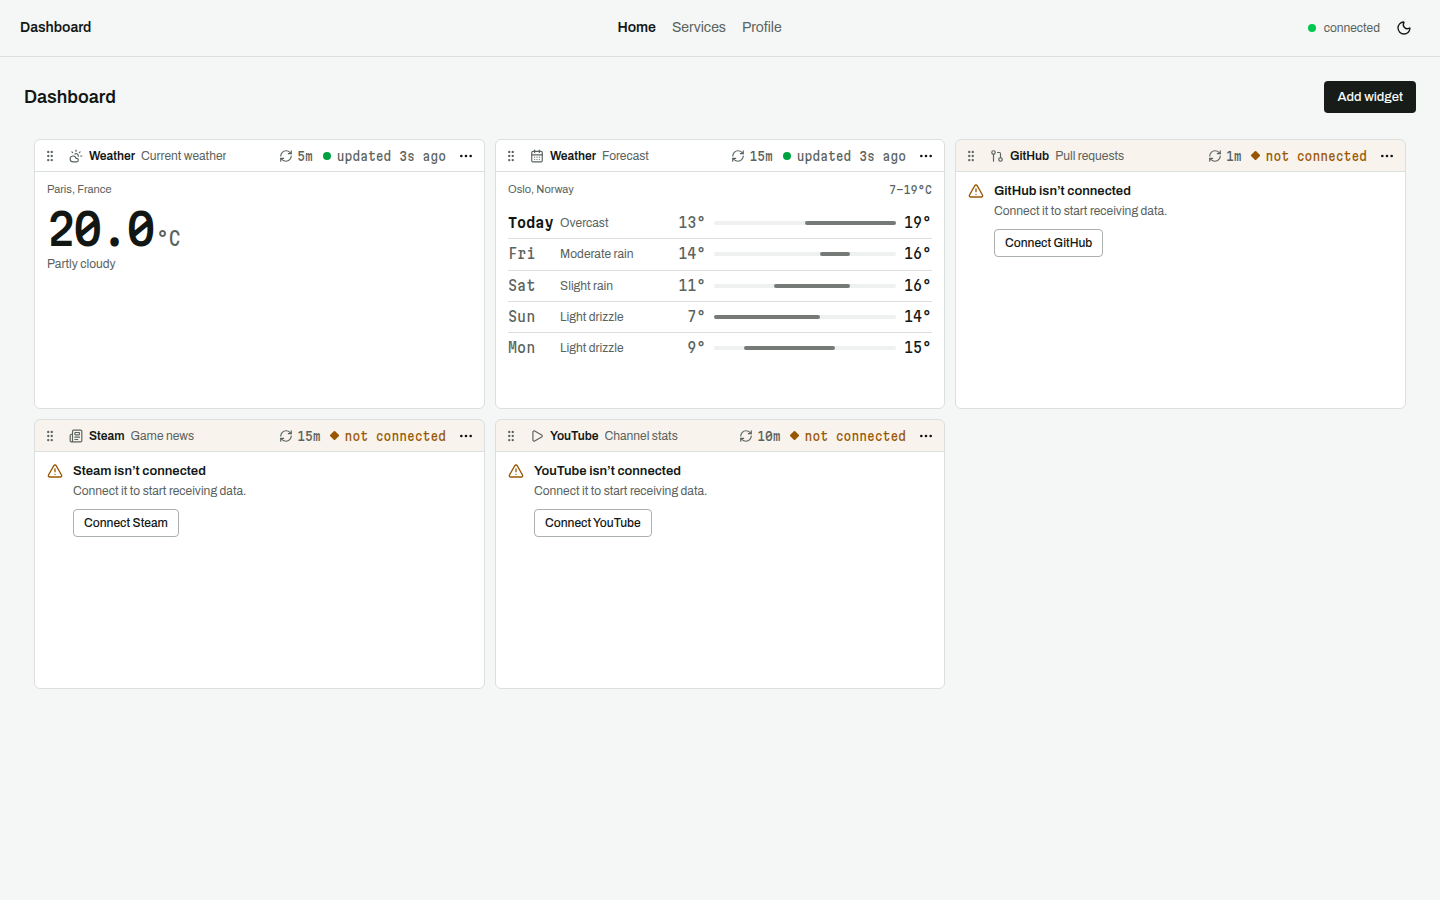
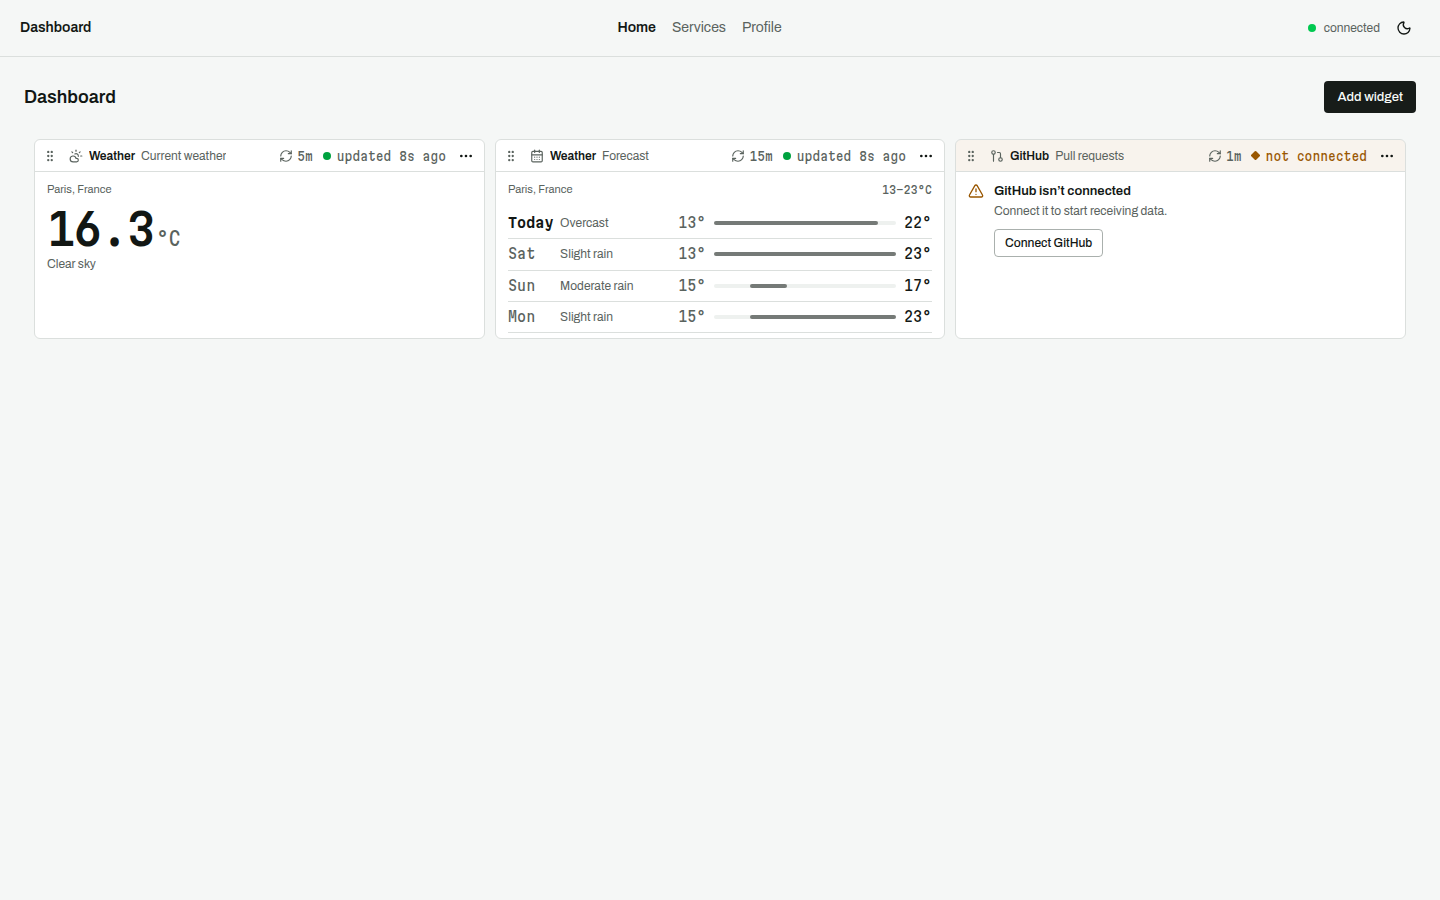
[C.NE][mockui-widget-frame] docs: add review verification evidence

diff --git a/features/mockui-widget-frame/verification/review.md b/features/mockui-widget-frame/verification/review.md
@@ -1,29 +1,34 @@
-1. **PASS**: Every frame state renders like its panel in `19-widget-states` at 1440 and 375 px, in dark and light. The states are live, loading, stale, paused, NOT_CONNECTED, REAUTH_REQUIRED, RATE_LIMITED, UPSTREAM_ERROR and INVALID_PARAMS. Live weather and NOT_CONNECTED came from the real backend. Paused was reached by taking the browser offline until the socket dropped. The other states were written into the `['widget', id]` query cache of nine `github.pull_requests` panels. Evidence: [01](https://github.com/tekClovis/dashBoard/blob/feature/mockui-widget-frame/features/mockui-widget-frame/verification/01-dashboard-real--light-1440.png?raw=true), [04](https://github.com/tekClovis/dashBoard/blob/feature/mockui-widget-frame/features/mockui-widget-frame/verification/04-states--light-1440.png?raw=true), [05](https://github.com/tekClovis/dashBoard/blob/feature/mockui-widget-frame/features/mockui-widget-frame/verification/05-states--dark-1440.png?raw=true), [06](https://github.com/tekClovis/dashBoard/blob/feature/mockui-widget-frame/features/mockui-widget-frame/verification/06-paused--dark-1440.png?raw=true), [07](https://github.com/tekClovis/dashBoard/blob/feature/mockui-widget-frame/features/mockui-widget-frame/verification/07-paused--light-1440.png?raw=true), [08](https://github.com/tekClovis/dashBoard/blob/feature/mockui-widget-frame/features/mockui-widget-frame/verification/08-paused--light-375.png?raw=true), [09](https://github.com/tekClovis/dashBoard/blob/feature/mockui-widget-frame/features/mockui-widget-frame/verification/09-states--light-375.png?raw=true), [10](https://github.com/tekClovis/dashBoard/blob/feature/mockui-widget-frame/features/mockui-widget-frame/verification/10-states--dark-375.png?raw=true). References: [dark-1440](https://github.com/tekClovis/dashBoard/blob/feature/mockui-widget-frame/features/mockui-widget-frame/verification/ref-19-widget-states--dark-1440.png?raw=true), [light-1440](https://github.com/tekClovis/dashBoard/blob/feature/mockui-widget-frame/features/mockui-widget-frame/verification/ref-19-widget-states--light-1440.png?raw=true), [dark-375](https://github.com/tekClovis/dashBoard/blob/feature/mockui-widget-frame/features/mockui-widget-frame/verification/ref-19-widget-states--dark-375.png?raw=true), [light-375](https://github.com/tekClovis/dashBoard/blob/feature/mockui-widget-frame/features/mockui-widget-frame/verification/ref-19-widget-states--light-375.png?raw=true). Note: when a panel's rows fill its height, the stale footer note "No update for 51m. Expected every 10m." is in the DOM, but you have to scroll the body to see it. The reference keeps it visible at the bottom of the panel.
-2. **PASS**: Each state gets the right lamp. Live is a green filled circle. Stale and paused are an amber ring. Warn is an amber diamond. Error is a red square. Waiting is a dashed neutral ring. Every lamp has a text label next to it ("updated 2s ago", "stale 51m", "paused 46s", "not connected", "reconnect", "retry 4m", "failed", "fix settings", "waiting"). Green appears only on live panels. Evidence: [05](https://github.com/tekClovis/dashBoard/blob/feature/mockui-widget-frame/features/mockui-widget-frame/verification/05-states--dark-1440.png?raw=true), [06](https://github.com/tekClovis/dashBoard/blob/feature/mockui-widget-frame/features/mockui-widget-frame/verification/06-paused--dark-1440.png?raw=true).
-3. **PASS**: The band copy matches design-reference §5 and the mock's `ERR_COPY` word for word. **Connect GitHub** and **Reconnect GitHub** link to `/services`. **Configure** opens the Configure widget dialog. Evidence: [04](https://github.com/tekClovis/dashBoard/blob/feature/mockui-widget-frame/features/mockui-widget-frame/verification/04-states--light-1440.png?raw=true), [13](https://github.com/tekClovis/dashBoard/blob/feature/mockui-widget-frame/features/mockui-widget-frame/verification/13-invalid-params-configure-opens--dark-1440.png?raw=true).
-4. **FAIL**: The push history now survives a remount: Services → Home took the sparkline to 4 points ([02](https://github.com/tekClovis/dashBoard/blob/feature/mockui-widget-frame/features/mockui-widget-frame/verification/02-sparkline-survives-remount--light-1440.png?raw=true)). It also resets when the remount comes after an out-of-band `PATCH` ([03](https://github.com/tekClovis/dashBoard/blob/feature/mockui-widget-frame/features/mockui-widget-frame/verification/03-history-reset-after-city-change--light-1440.png?raw=true)). It still mixes cities after a change made through the real Configure dialog.
-   - **Steps:** the current_weather city was Reykjavik. It was changed to Paris with Configure → Save, which sends `PATCH /api/widgets/:id` and invalidates `['widgets']`. Then the next scheduled push was awaited, and the view was remounted (Services → Home).
-   - **Result:** the panel's channel reads "Paris, France", but the sparkline shows Reykjavik 10° and then Paris 20°, with "↑ 10.0° since 14:25" ([11](https://github.com/tekClovis/dashBoard/blob/feature/mockui-widget-frame/features/mockui-widget-frame/verification/11-sparkline-mixes-cities-after-configure--light-1440.png?raw=true), [12](https://github.com/tekClovis/dashBoard/blob/feature/mockui-widget-frame/features/mockui-widget-frame/verification/12-live-pulse-frozen-mid-sweep--light-1440.png?raw=true)).
-   - **Cause:** `useWidgetData` tags each push with the params the client holds *when the push arrives* (`paramsKey.current`), not the params the data was fetched with. The server's timer is not reconfigured on PATCH, so it keeps fetching the old city until the client resubscribes. `useWidgetData` deliberately does not resubscribe on a params change. The first push after Save therefore carries Reykjavik data under the Paris key. It resets the history to that point, and the Paris push after the resubscribe is appended to it. `github.pull_requests` uses the same `pushTrail`, so its "↑N since" can compare two repos or two `state=` filters in the same way.
-   - No spec covers this sequence: the new `useWidgetData.spec` case changes params and pushes new-params data in the same step. Channel, stat and detail, plus mono numbers, times and IDs, are otherwise correct for each renderer. Note: the current-weather stat has no condition icon, and forecast rows have no per-day icon, unlike the mock.
-5. **PASS**: `frame-state.spec.ts` covers every branch in first-match order (warn and error, then loading, paused, stale over 2× the interval, live). It also covers every error copy, including the variants with and without `retryAt` and with and without a city. `WidgetFrame.spec.tsx` adds cases for remount, recovery and pulse restart.
-6. **PASS**: In `web/`, `npm test` passed 31 files and 147 tests. `npx tsc --noEmit` exited 0. `npm run lint` exited 0 with 1 warning, at `src/api/client.ts:17`, which this branch did not change.
-7. **PASS** (mock flow "Simulate a push", design-reference §5 "Live pulse"): the pulse CSS compiles in the Vite build. That build has the `widget-sweep`, `widget-ping` and `widget-sweep-still` keyframes, and the `[data-pulse]>[data-slot=widget-head]:after` rule. In the browser, a `MutationObserver` on the live dashboard saw `data-pulse` set on each `widget:data` and cleared after about 900 ms. The computed styles were `widget-sweep 0.9s` on the header `::after` with an `oklch(0.62 0.18 148)` (`--live`) background, and `widget-ping` on the live lamp. With reduced motion, the line uses `widget-sweep-still` and the lamp has no animation. A frame frozen mid-pulse shows the lamp ring and the line under the header ([12](https://github.com/tekClovis/dashBoard/blob/feature/mockui-widget-frame/features/mockui-widget-frame/verification/12-live-pulse-frozen-mid-sweep--light-1440.png?raw=true)).
+1. **PASS**: Every frame state renders like its panel in `19-widget-states`, in dark and light, at 1440 and 375 px. The states are live, loading, stale, paused, NOT_CONNECTED, REAUTH_REQUIRED, RATE_LIMITED, UPSTREAM_ERROR and INVALID_PARAMS. Live weather and forecast, NOT_CONNECTED and INVALID_PARAMS came from the real backend. The other states were written into the `['widget', id]` query cache on a second dashboard. Paused was reached by disconnecting the socket. Evidence: [01-dashboard-real--light-1440.png](https://github.com/tekClovis/dashBoard/blob/feature/mockui-widget-frame/features/mockui-widget-frame/verification/01-dashboard-real--light-1440.png?raw=true), [states--light-1440.png](https://github.com/tekClovis/dashBoard/blob/feature/mockui-widget-frame/features/mockui-widget-frame/verification/states--light-1440.png?raw=true), [states--dark-1440.png](https://github.com/tekClovis/dashBoard/blob/feature/mockui-widget-frame/features/mockui-widget-frame/verification/states--dark-1440.png?raw=true), [states--light-375.png](https://github.com/tekClovis/dashBoard/blob/feature/mockui-widget-frame/features/mockui-widget-frame/verification/states--light-375.png?raw=true), [states--dark-375.png](https://github.com/tekClovis/dashBoard/blob/feature/mockui-widget-frame/features/mockui-widget-frame/verification/states--dark-375.png?raw=true), [paused--light-1440.png](https://github.com/tekClovis/dashBoard/blob/feature/mockui-widget-frame/features/mockui-widget-frame/verification/paused--light-1440.png?raw=true).
+2. **PASS**: Each state gets the right lamp. Live is a green filled circle. Stale and paused are an amber ring. Warn is an amber diamond. Error is a red square. Waiting is a dashed neutral ring. Every lamp has a text label next to it. Warn and error headers are tinted. Green appears only on live panels. Note: the sparkline's last-point dot stays green on stale and paused panels, but the reference stale panel does the same. Evidence: [states--light-1440.png](https://github.com/tekClovis/dashBoard/blob/feature/mockui-widget-frame/features/mockui-widget-frame/verification/states--light-1440.png?raw=true), [paused--light-1440.png](https://github.com/tekClovis/dashBoard/blob/feature/mockui-widget-frame/features/mockui-widget-frame/verification/paused--light-1440.png?raw=true).
+3. **FAIL**: In a second session, the INVALID_PARAMS band names the wrong city.
+   - **Steps:** open the dashboard in sessions A and B with the same user. In A, change the city London → "Atlantisxq" with Configure → Save.
+   - **Result:** A reads "No results for “Atlantisxq”." ([07-session-a-invalid-city-copy--light-1440.png](https://github.com/tekClovis/dashBoard/blob/feature/mockui-widget-frame/features/mockui-widget-frame/verification/07-session-a-invalid-city-copy--light-1440.png?raw=true)). B reads "No results for “Paris”. Check the city name." above "Last data from 00:27 · London, United Kingdom" ([08-session-b-invalid-city-names-paris--light-1440.png](https://github.com/tekClovis/dashBoard/blob/feature/mockui-widget-frame/features/mockui-widget-frame/verification/08-session-b-invalid-city-names-paris--light-1440.png?raw=true)). Paris is neither the city that was rejected nor the city of the data shown.
+   - **Cause:** `WidgetFrame.tsx` builds the copy from `instance.params.city`, which is B's cached `['widgets']` entry. That entry is from before A's Configure. The mock's `ERR_COPY.INVALID_PARAMS` uses the error's own detail first (`e.detail || w.params.city`). The server's `widget:error` message carries the rejected city ("Could not resolve city 'atlantisxq'."), but the frame ignores it. This is the same stale-params path that 47e40f9 fixed for history, here reaching the error copy.
+   - Otherwise correct: the copy for every code matches design-reference §5 and the mock's `ERR_COPY`. **Connect GitHub** and **Reconnect GitHub** link to `/services`. The band's **Configure** opens the dialog, and saving a valid city brings the panel back to live in both sessions. Evidence: [states--light-1440.png](https://github.com/tekClovis/dashBoard/blob/feature/mockui-widget-frame/features/mockui-widget-frame/verification/states--light-1440.png?raw=true), [09-band-configure-opens-dialog--light-1440.png](https://github.com/tekClovis/dashBoard/blob/feature/mockui-widget-frame/features/mockui-widget-frame/verification/09-band-configure-opens-dialog--light-1440.png?raw=true), [10-fixed-city-recovers-history-reset--light-1440.png](https://github.com/tekClovis/dashBoard/blob/feature/mockui-widget-frame/features/mockui-widget-frame/verification/10-fixed-city-recovers-history-reset--light-1440.png?raw=true).
+4. **PASS**: Each renderer shows channel, stat and detail for its widget type, and numbers, times and IDs are mono. The sparkline and delta no longer mix cities.
+   - **Two sessions:** B had 2 Paris points. A changed the city to London with Configure → Save. Both sessions reset to a single London point keyed `[["city","London"],["units","metric"]]`. After the next scheduled push, both held only London: 00:22 15.8°, 00:27 15.7°. Evidence: [02-session-b-paris-two-points--light-1440.png](https://github.com/tekClovis/dashBoard/blob/feature/mockui-widget-frame/features/mockui-widget-frame/verification/02-session-b-paris-two-points--light-1440.png?raw=true), [03-session-a-london-after-configure--light-1440.png](https://github.com/tekClovis/dashBoard/blob/feature/mockui-widget-frame/features/mockui-widget-frame/verification/03-session-a-london-after-configure--light-1440.png?raw=true), [04-session-b-london-history-reset--light-1440.png](https://github.com/tekClovis/dashBoard/blob/feature/mockui-widget-frame/features/mockui-widget-frame/verification/04-session-b-london-history-reset--light-1440.png?raw=true), [05-session-b-london-only-after-next-push--light-1440.png](https://github.com/tekClovis/dashBoard/blob/feature/mockui-widget-frame/features/mockui-widget-frame/verification/05-session-b-london-only-after-next-push--light-1440.png?raw=true), [06-session-a-london-only-after-next-push--light-1440.png](https://github.com/tekClovis/dashBoard/blob/feature/mockui-widget-frame/features/mockui-widget-frame/verification/06-session-a-london-only-after-next-push--light-1440.png?raw=true).
+   - **Single session:** after fixing the invalid city to Paris, the history reset to one Paris point in both sessions. Remounting A (Services → Home) kept that history. Evidence: [10-fixed-city-recovers-history-reset--light-1440.png](https://github.com/tekClovis/dashBoard/blob/feature/mockui-widget-frame/features/mockui-widget-frame/verification/10-fixed-city-recovers-history-reset--light-1440.png?raw=true).
+   - Note: the forecast rows and the current-weather stat have no condition icon (§5 table), because the data only has a `condition` string. In the default 4×3 panel, the sparkline, delta and stale footer note sit below the fold of the scrolling body ([05-session-b-london-only-after-next-push--light-1440.png](https://github.com/tekClovis/dashBoard/blob/feature/mockui-widget-frame/features/mockui-widget-frame/verification/05-session-b-london-only-after-next-push--light-1440.png?raw=true)).
+5. **PASS**: `frame-state.spec.ts` covers every branch in first-match order (warn and error, then loading, paused, stale, live). It also covers every error copy, including the variants with and without `retryAt` and with and without a city. It has no case where the copy's city differs from the rejected one.
+6. **PASS**: `shared` was rebuilt first. In `web/`, `npm test` passed 148 tests, `npx tsc --noEmit` exited 0, and `npm run lint` exited 0 with 1 warning at `src/api/client.ts:17`, which this branch did not change. Server: the timer tests pass (54) and `tsc --noEmit` exits 0.
+7. **Note** (spec Constraints, outside the numbered checklist): commits a2f99b2 and 47e40f9 change `server/src/timer/*` and `shared/src/socket.ts`, and add an optional `paramsKey` to `widget:data`. The spec says "No server, `shared/` or API contract changes", and the §5 table says the history is kept client-side "(no API change)". This is a constraint breach, not a checklist miss, and it is close to necessary.
+   - Without a2f99b2, the server kept fetching the old params while any subscriber stayed, so Configure did not take effect. That breaks the item 3 Configure flow.
+   - Without 47e40f9, a second session has no signal that the params changed, so item 4 fails. The `instance.updated` event in `dashboard-events.ts` is never forwarded to clients.
+   - The field is additive and optional, and the docs were updated. It still needs the spec owner's sign-off.
+   - Other notes: B's Configure dialog still opens with B's stale params until `['widgets']` refetches on window focus. A Configure that only changes the refresh rate is ignored by `TimerService.activate` (same params means no-op), so the frame's stale threshold uses the new rate while the server keeps the old one.
 
 ![01-dashboard-real--light-1440](https://github.com/tekClovis/dashBoard/blob/feature/mockui-widget-frame/features/mockui-widget-frame/verification/01-dashboard-real--light-1440.png?raw=true)
-![02-sparkline-survives-remount--light-1440](https://github.com/tekClovis/dashBoard/blob/feature/mockui-widget-frame/features/mockui-widget-frame/verification/02-sparkline-survives-remount--light-1440.png?raw=true)
-![03-history-reset-after-city-change--light-1440](https://github.com/tekClovis/dashBoard/blob/feature/mockui-widget-frame/features/mockui-widget-frame/verification/03-history-reset-after-city-change--light-1440.png?raw=true)
-![04-states--light-1440](https://github.com/tekClovis/dashBoard/blob/feature/mockui-widget-frame/features/mockui-widget-frame/verification/04-states--light-1440.png?raw=true)
-![05-states--dark-1440](https://github.com/tekClovis/dashBoard/blob/feature/mockui-widget-frame/features/mockui-widget-frame/verification/05-states--dark-1440.png?raw=true)
-![06-paused--dark-1440](https://github.com/tekClovis/dashBoard/blob/feature/mockui-widget-frame/features/mockui-widget-frame/verification/06-paused--dark-1440.png?raw=true)
-![07-paused--light-1440](https://github.com/tekClovis/dashBoard/blob/feature/mockui-widget-frame/features/mockui-widget-frame/verification/07-paused--light-1440.png?raw=true)
-![08-paused--light-375](https://github.com/tekClovis/dashBoard/blob/feature/mockui-widget-frame/features/mockui-widget-frame/verification/08-paused--light-375.png?raw=true)
-![09-states--light-375](https://github.com/tekClovis/dashBoard/blob/feature/mockui-widget-frame/features/mockui-widget-frame/verification/09-states--light-375.png?raw=true)
-![10-states--dark-375](https://github.com/tekClovis/dashBoard/blob/feature/mockui-widget-frame/features/mockui-widget-frame/verification/10-states--dark-375.png?raw=true)
-![11-sparkline-mixes-cities-after-configure--light-1440](https://github.com/tekClovis/dashBoard/blob/feature/mockui-widget-frame/features/mockui-widget-frame/verification/11-sparkline-mixes-cities-after-configure--light-1440.png?raw=true)
-![12-live-pulse-frozen-mid-sweep--light-1440](https://github.com/tekClovis/dashBoard/blob/feature/mockui-widget-frame/features/mockui-widget-frame/verification/12-live-pulse-frozen-mid-sweep--light-1440.png?raw=true)
-![13-invalid-params-configure-opens--dark-1440](https://github.com/tekClovis/dashBoard/blob/feature/mockui-widget-frame/features/mockui-widget-frame/verification/13-invalid-params-configure-opens--dark-1440.png?raw=true)
-![ref-19-widget-states--dark-1440](https://github.com/tekClovis/dashBoard/blob/feature/mockui-widget-frame/features/mockui-widget-frame/verification/ref-19-widget-states--dark-1440.png?raw=true)
-![ref-19-widget-states--light-1440](https://github.com/tekClovis/dashBoard/blob/feature/mockui-widget-frame/features/mockui-widget-frame/verification/ref-19-widget-states--light-1440.png?raw=true)
-![ref-19-widget-states--dark-375](https://github.com/tekClovis/dashBoard/blob/feature/mockui-widget-frame/features/mockui-widget-frame/verification/ref-19-widget-states--dark-375.png?raw=true)
-![ref-19-widget-states--light-375](https://github.com/tekClovis/dashBoard/blob/feature/mockui-widget-frame/features/mockui-widget-frame/verification/ref-19-widget-states--light-375.png?raw=true)
+![02-session-b-paris-two-points--light-1440](https://github.com/tekClovis/dashBoard/blob/feature/mockui-widget-frame/features/mockui-widget-frame/verification/02-session-b-paris-two-points--light-1440.png?raw=true)
+![03-session-a-london-after-configure--light-1440](https://github.com/tekClovis/dashBoard/blob/feature/mockui-widget-frame/features/mockui-widget-frame/verification/03-session-a-london-after-configure--light-1440.png?raw=true)
+![04-session-b-london-history-reset--light-1440](https://github.com/tekClovis/dashBoard/blob/feature/mockui-widget-frame/features/mockui-widget-frame/verification/04-session-b-london-history-reset--light-1440.png?raw=true)
+![05-session-b-london-only-after-next-push--light-1440](https://github.com/tekClovis/dashBoard/blob/feature/mockui-widget-frame/features/mockui-widget-frame/verification/05-session-b-london-only-after-next-push--light-1440.png?raw=true)
+![06-session-a-london-only-after-next-push--light-1440](https://github.com/tekClovis/dashBoard/blob/feature/mockui-widget-frame/features/mockui-widget-frame/verification/06-session-a-london-only-after-next-push--light-1440.png?raw=true)
+![07-session-a-invalid-city-copy--light-1440](https://github.com/tekClovis/dashBoard/blob/feature/mockui-widget-frame/features/mockui-widget-frame/verification/07-session-a-invalid-city-copy--light-1440.png?raw=true)
+![08-session-b-invalid-city-names-paris--light-1440](https://github.com/tekClovis/dashBoard/blob/feature/mockui-widget-frame/features/mockui-widget-frame/verification/08-session-b-invalid-city-names-paris--light-1440.png?raw=true)
+![09-band-configure-opens-dialog--light-1440](https://github.com/tekClovis/dashBoard/blob/feature/mockui-widget-frame/features/mockui-widget-frame/verification/09-band-configure-opens-dialog--light-1440.png?raw=true)
+![10-fixed-city-recovers-history-reset--light-1440](https://github.com/tekClovis/dashBoard/blob/feature/mockui-widget-frame/features/mockui-widget-frame/verification/10-fixed-city-recovers-history-reset--light-1440.png?raw=true)
+![paused--light-1440](https://github.com/tekClovis/dashBoard/blob/feature/mockui-widget-frame/features/mockui-widget-frame/verification/paused--light-1440.png?raw=true)
+![states--dark-1440](https://github.com/tekClovis/dashBoard/blob/feature/mockui-widget-frame/features/mockui-widget-frame/verification/states--dark-1440.png?raw=true)
+![states--dark-375](https://github.com/tekClovis/dashBoard/blob/feature/mockui-widget-frame/features/mockui-widget-frame/verification/states--dark-375.png?raw=true)
+![states--light-1440](https://github.com/tekClovis/dashBoard/blob/feature/mockui-widget-frame/features/mockui-widget-frame/verification/states--light-1440.png?raw=true)
+![states--light-375](https://github.com/tekClovis/dashBoard/blob/feature/mockui-widget-frame/features/mockui-widget-frame/verification/states--light-375.png?raw=true)
